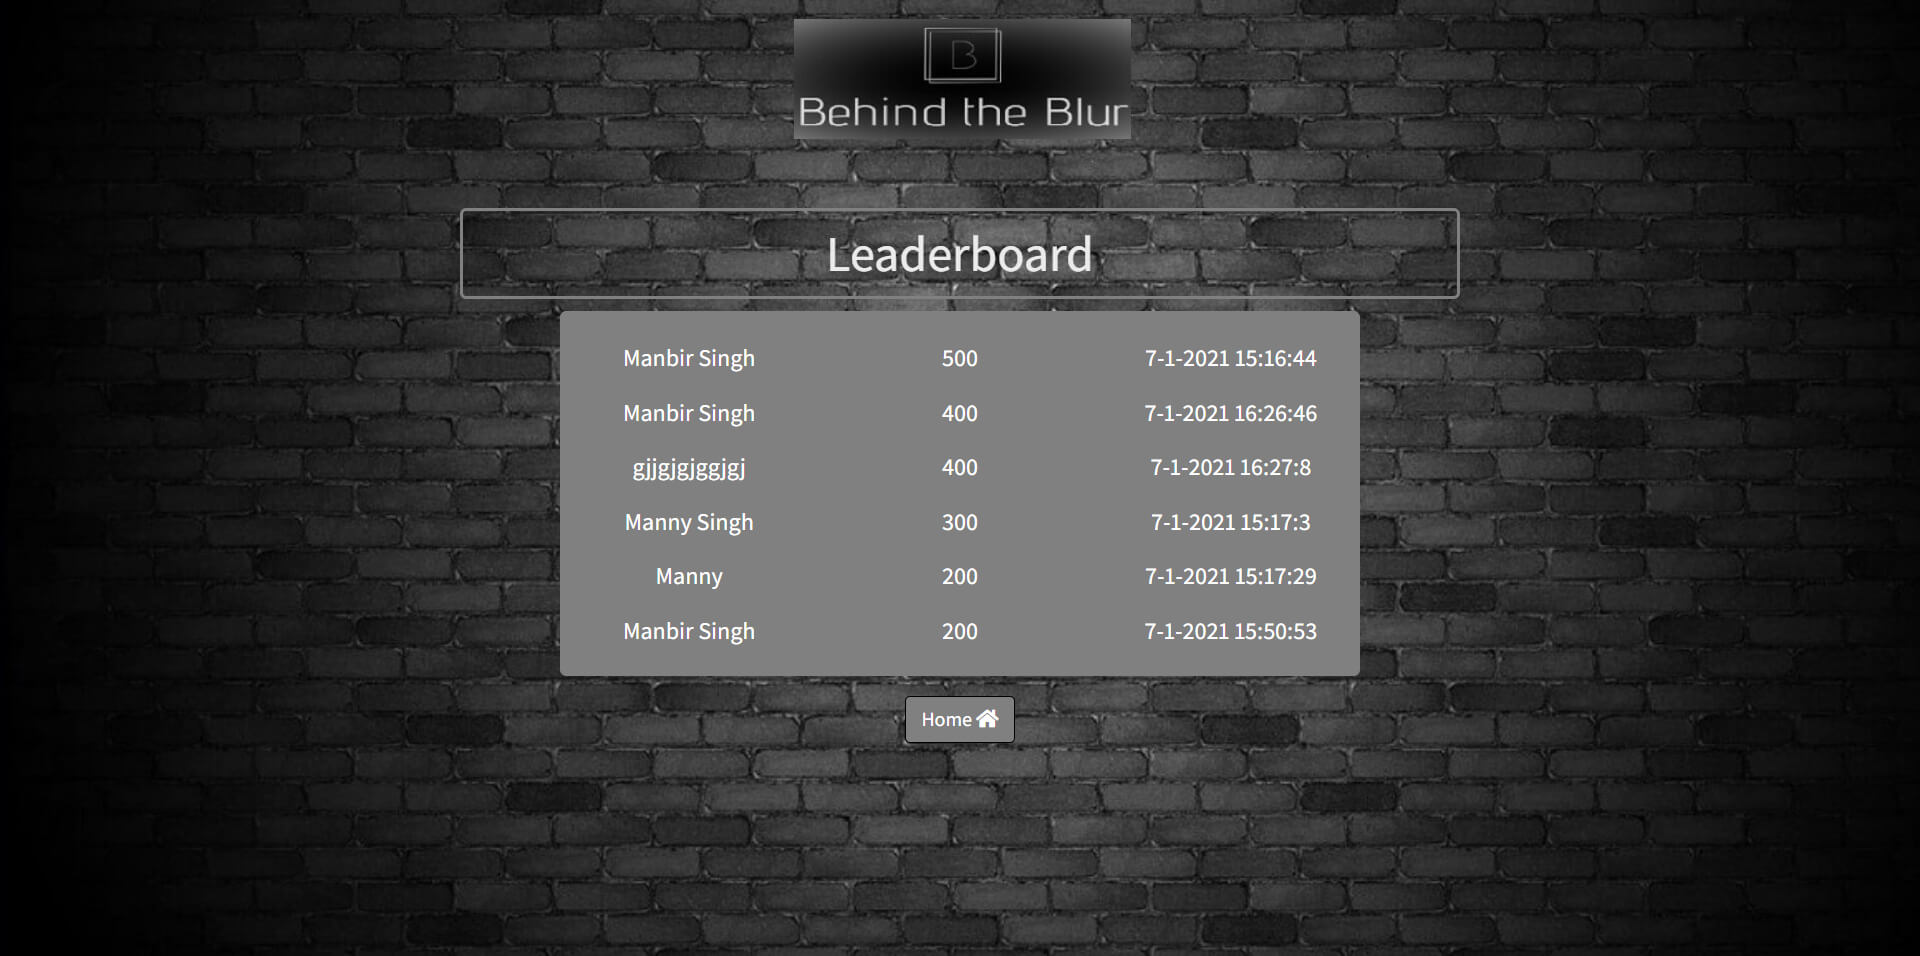
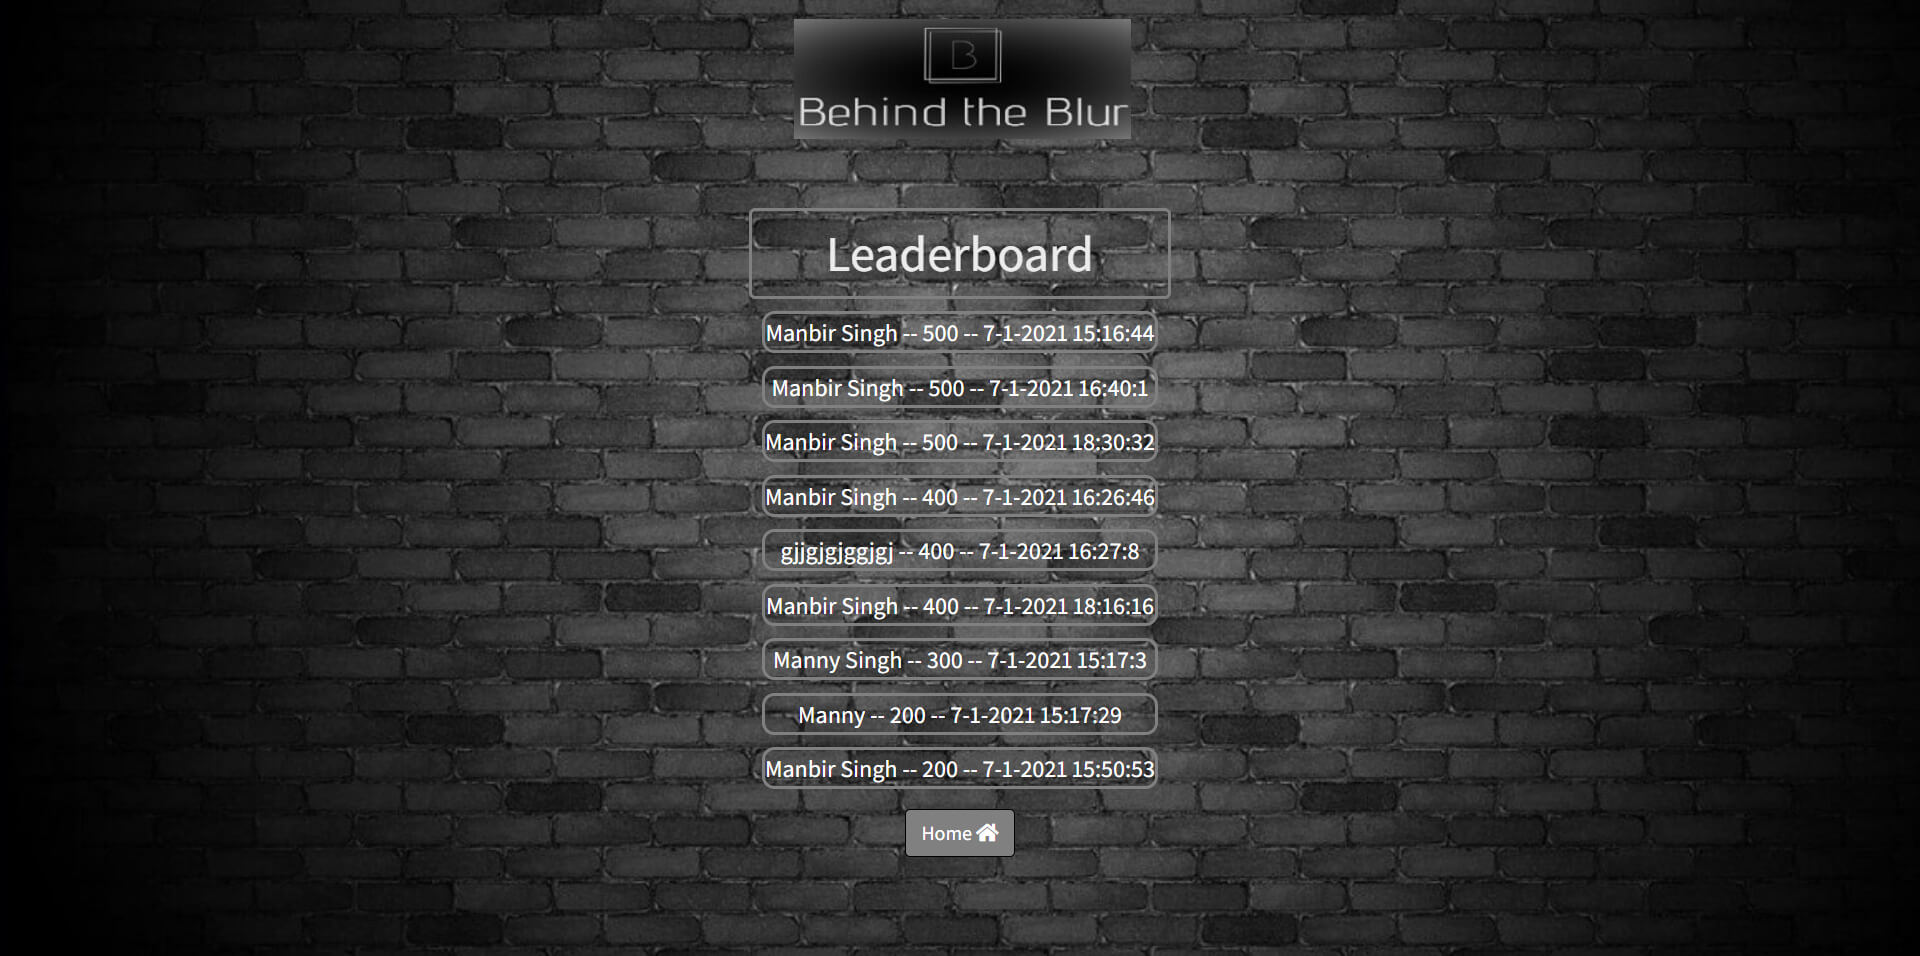
fixed highscore page as content wasnt showing properly on smaller screens

diff --git a/highscores.html b/highscores.html
@@ -23,20 +23,10 @@
         <div class="home-container">
            <div>
     <!--List to show the score board -->
-                <h1 id="points-scored">Leaderboard</h1>
-                    <div class="players container">
-                        <div class="row">
-                            <div id="player-list" class="col-sm">
-                            </div>
-                            <div id="point-list" class="col-sm">
-                            </div>
-                            <div id="date-list" class="col-sm">
-                            </div>
-                        </div>
-                        </div>
-
+            <h1 id="points-scored">Leaderboard</h1>
+                <ul id="player-list" class="players"></ul>
     <!--Link to navigate back to home page -->
-                <a href="index.html" class="btn btn-primary custom-btn" id="home-btn">Home  <i class="fas fa-home"></i></a>
+                <a href="index.html" class="btn btn-primary custom-btn">Home  <i class="fas fa-home"></i></a>
             </div>
         </div>    
     </section>
@@ -45,6 +35,5 @@
     <script src="https://cdnjs.cloudflare.com/ajax/libs/popper.js/1.12.9/umd/popper.min.js" integrity="sha384-ApNbgh9B+Y1QKtv3Rn7W3mgPxhU9K/ScQsAP7hUibX39j7fakFPskvXusvfa0b4Q" crossorigin="anonymous"></script>
     <script src="https://maxcdn.bootstrapcdn.com/bootstrap/4.0.0/js/bootstrap.min.js" integrity="sha384-JZR6Spejh4U02d8jOt6vLEHfe/JQGiRRSQQxSfFWpi1MquVdAyjUar5+76PVCmYl" crossorigin="anonymous"></script> 
     <script src="assets/js/highscore.js"></script>
-
 </body>
 </html>

diff --git a/assets/js/highscore.js b/assets/js/highscore.js
@@ -1,22 +1,11 @@
 var highScoresList = document.querySelector('#player-list');
-var pointsList = document.querySelector('#point-list')
-var dateList = document.querySelector('#date-list')
 var pointsScored = JSON.parse(localStorage.getItem("pointsScored")) || [];
 
 // To retreive data and return a list.
 var savedList = pointsScored.map( function(points){
-    return `<li>${points.name}</li>`;
+    return `<li>${points.name} __ ${points.points} __ ${points.date} </li>`;
 }).join("");
 
-var savedPointsList = pointsScored.map( function(points){
-    return `<li>${points.points}</li>`;
-}).join("");
-
-var savedDateList = pointsScored.map( function(points){
-    return `<li>${points.date}</li>`;
-}).join("");
 
 //to display players on the Highscorers List
 highScoresList.innerHTML = savedList;
-pointsList.innerHTML = savedPointsList;
-dateList.innerHTML = savedDateList;

diff --git a/assets/css/style.css b/assets/css/style.css
@@ -95,11 +95,6 @@ h1, h3 {
     margin-bottom: 20px;
     }
    
-#hint {
-    margin-top: 20px;
-    margin-bottom: 20px;
-}
-
 /*Score Container for the points when right answer selected*/
 .score-container {
     display: flex;
@@ -176,6 +171,4 @@ input::placeholder {
 .players {
     font-size: larger;
     list-style: none;
-
 }
-

diff --git a/README.md b/README.md
@@ -83,8 +83,8 @@ alt="Points Page Screenshot" width="80%" height="70%"/>
 
 <p align="center">Highscores Page </p>
 <p align="center">
-  <img src="assets/images/screenshots/HighscorePage.jpg" 
-alt="High Score Page Screenshot" width="80%" height="70%"/>
+<img src="assets/images/screenshots/HighscorePage.jpg" 
+alt="Points Page Screenshot" width="80%" height="70%"/>
 </p>
 
 #  User Stories
@@ -136,9 +136,10 @@ alt="Deployment" width="50%" height="50%"/>
 
 <p align="center"> For the user to keep track of their previous scores, I have added High Score page where they scores from every quiz played are saved. </p>
 <p align="center">
-  <img src="assets/images/userstories/HighscorePage.jpg" 
+  <img src="assets/images/userstories/Highscore.jpg" 
 alt="Deployment" width="50%" height="50%"/>
 </p>
+
 
 # Deployment
 The site has been deployed to github and is accessible on github-pages:
